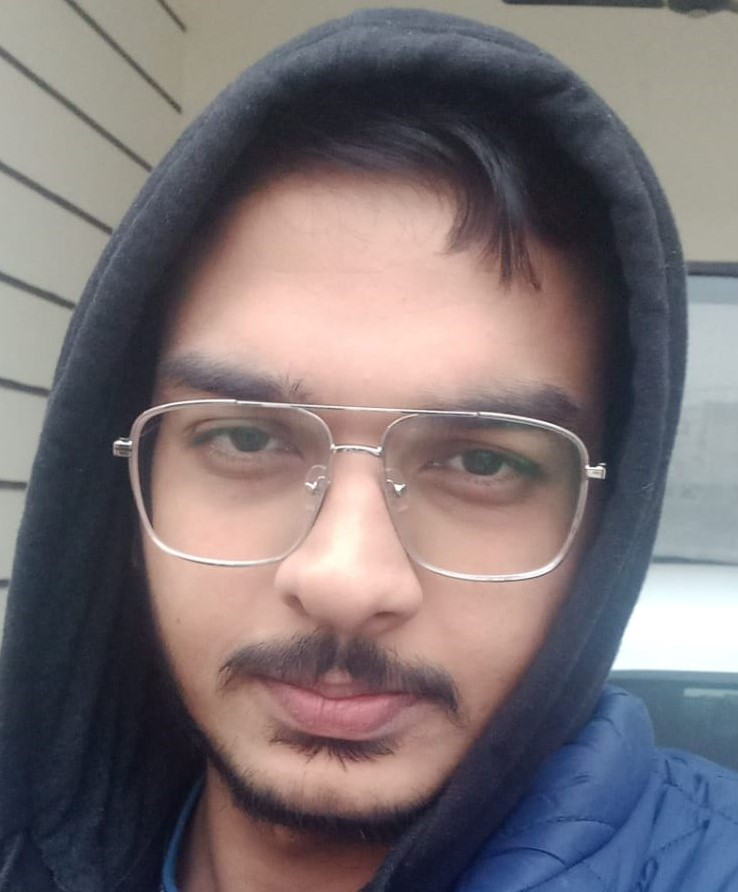
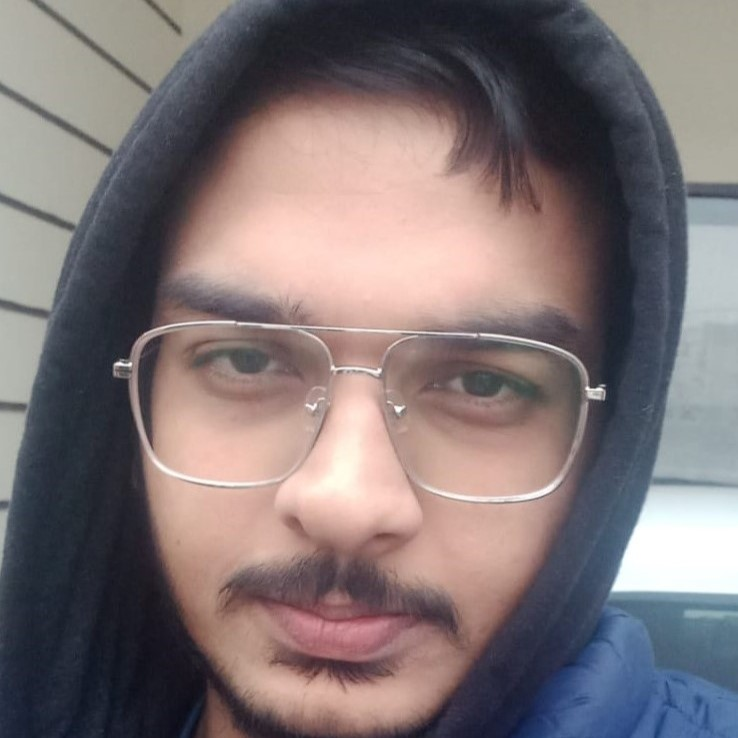
fixed images and added links

diff --git a/Dev Team/index.html b/Dev Team/index.html
@@ -3,7 +3,7 @@
 <head>
     <meta charset="UTF-8">
     <meta name="viewport" content="width=device-width, initial-scale=1.0">
-    <title>ASSIC - Chapters</title>
+    <title>ASSIC - Meet the Developers</title>
     <link rel="stylesheet" href="styles.css">
     <!-- Bootstrap CSS Stylesheet -->
     <link rel="stylesheet" href="https://stackpath.bootstrapcdn.com/bootstrap/4.4.1/css/bootstrap.min.css"
@@ -59,7 +59,7 @@
            
 
                         <div class="img-hover-zoom img-hover-zoom--colorize">
-                            <img class="shadow" src="./images/riteshgupta.jpg"
+                            <img class="shadow" src="./images/addy.jpg"
                                 alt="Ritesh Gupta"   width="130">
                         </div>
 
@@ -82,8 +82,8 @@
                             <div>
                                 <ul class="list-inline">
                                     <a href="" target="_blank"><li class="list-inline-item"><i class="fab fa-github"></i></li></a>
-                                    <a href="" target="_blank"><li class="list-inline-item"><i class="fab fa-linkedin-in"></i></li></a>
-                                    <a href="" target="_blank"><li class="list-inline-item"><i class="fab fa-instagram"></i></li></a>
+                                    <a href="https://www.linkedin.com/in/aadig21/" target="_blank"><li class="list-inline-item"><i class="fab fa-linkedin-in"></i></li></a>
+                                    <a href="https://www.instagram.com/addy__gupta/" target="_blank"><li class="list-inline-item"><i class="fab fa-instagram"></i></li></a>
                                 </ul>
 
                             </div>
@@ -180,7 +180,7 @@
            
 
                         <div class="img-hover-zoom img-hover-zoom--colorize">
-                            <img class="shadow" src="./images/Shauryajain (2).jpg"
+                            <img class="shadow" src="./images/Shaurya.jpg"
                                 alt="Shaurya Jain"   width="130" >
                         </div>
 
